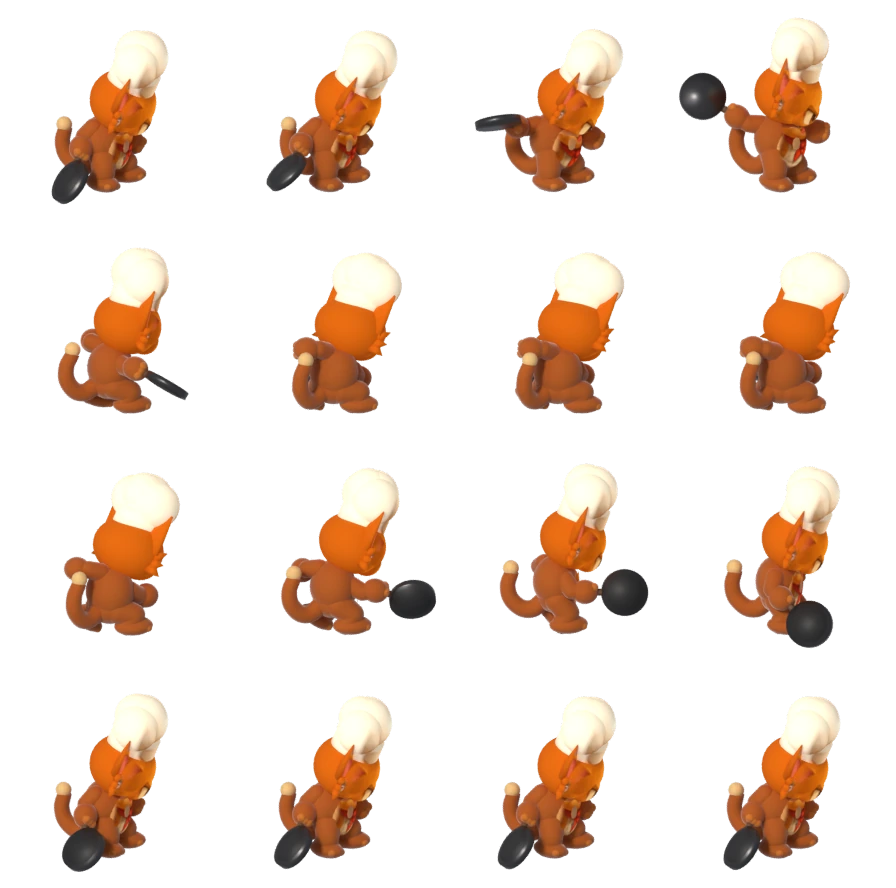
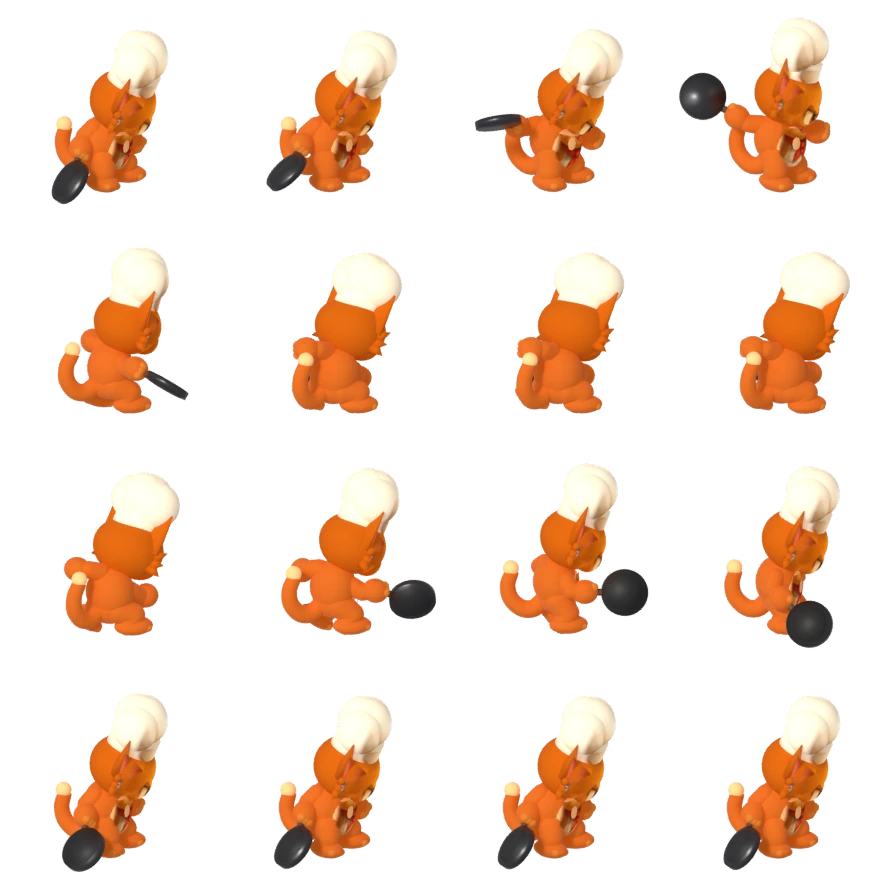
Chat chef 3D : même couleur tête et corps ; fichier mémoire ATELIER-BLENDER
Claude-Session: https://claude.ai/code/session_011iTQJ3ptn1M89syPvc6cfN

diff --git a/tools/blender/chef.py b/tools/blender/chef.py
@@ -30,7 +30,7 @@ CHAR_SCALE = 0.31   # taille du personnage par rapport à la carte : environ 56 
 ANIMS = {"idle": "Idle_Loop", "marche": "Walk_Loop", "course": "Jog_Fwd_Loop", "attaque": "Sword_Attack", "touche": "Hit_Chest", "mort": "Death01"}
 
 SPECS = {
-    "moustachu": dict(fur=(0.40, 0.085, 0.003), light=(0.75, 0.34, 0.10), apron=(0.93, 0.82, 0.62), scarf=(0.80, 0.10, 0.08),
+    "moustachu": dict(fur=(0.53, 0.10, 0.002), light=(0.77, 0.37, 0.13), apron=(0.93, 0.82, 0.62), scarf=(0.80, 0.10, 0.08),
                       hat=(0.96, 0.83, 0.62), ear_in=(0.95, 0.55, 0.60), eye=(0.55, 0.28, 0.05), tail_tip=(0.85, 0.37, 0.06),
                       paint=dict(img="moustachu_tete.png", px=(207.5, 60, 0, 295, 330), chin_z=0.76, top_z=1.93, row_chin=330,
                                  torso=dict(img="moustachu_plastron.png", px=(207.5, 112, 332, 196, 153)))),
@@ -47,10 +47,12 @@ def mat(name, color, rough=0.7, bump=0.0):
     b.inputs["Base Color"].default_value = (*color, 1)
     b.inputs["Roughness"].default_value = rough
     if bump:  # fourrure : reflet duveteux, lumière qui traverse un peu le poil, grain fin
-        b.inputs["Sheen Weight"].default_value = 0.7
+        b.inputs["Sheen Weight"].default_value = 0.12        # peu de reflet duveteux : il blanchit la couleur
         b.inputs["Sheen Roughness"].default_value = 0.35
-        b.inputs["Subsurface Weight"].default_value = 0.18
+        b.inputs["Subsurface Weight"].default_value = 0.05
         b.inputs["Subsurface Radius"].default_value = (0.6, 0.25, 0.1)
+        b.inputs["Emission Color"].default_value = (*color, 1)   # même éclat que la tête peinte : la tête et le corps ont la même couleur
+        b.inputs["Emission Strength"].default_value = 0.5
         n = nt.nodes.new("ShaderNodeTexNoise")
         n.inputs["Scale"].default_value = 260
         n.inputs["Detail"].default_value = 4

diff --git a/docs/memoire/ATELIER-BLENDER.md b/docs/memoire/ATELIER-BLENDER.md
@@ -1,0 +1,88 @@
+# Atelier Blender : cartes et personnages en 3D
+
+Mémoire technique du chantier 3D (créée le 17/11/2026 à la demande de Rudy : « apprendre de tes erreurs, ne pas les reproduire, avancer 10 fois plus vite »).
+À lire AVANT de toucher à `tools/blender/`. Le [[JOURNAL]] raconte l'histoire, [[REPRISE]] dit où on en est ; ce fichier dit **comment faire vite et sans erreur**.
+
+## 1. L'objectif de Rudy (à ne jamais perdre de vue)
+- Cartes et personnages en **vraie 3D réaliste, IDENTIQUES à ses dessins** (pas « dans le même esprit »).
+- Personnages avec un **vrai squelette**, qui marchent et courent **comme un humain**, **dans toutes les directions** (gauche, droite, haut, bas), de façon fluide.
+- Vue **en hauteur** : toute la carte visible. Taille des personnages **cohérente avec la carte** (ni gros, ni minuscules).
+- Rudy vérifie toujours : il compare avec l'original et voit les écarts. **Toujours comparer côte à côte avant de dire que c'est bon.**
+- Il ne veut RIEN installé sur son ordinateur : tout se passe dans le cloud.
+
+## 2. Mise en route (5 minutes)
+```bash
+python3 -m venv /tmp/blender_env
+pip download bpy --no-deps -d /tmp/bpy_dl            # roue ~430 Mo (Blender 5.3 comme module Python)
+/tmp/blender_env/bin/pip install /tmp/bpy_dl/bpy-*.whl
+pip install scipy opencv-contrib-python-headless      # masques, étalement des couleurs, agrandissement
+```
+- `ffmpeg` est déjà installé (`/usr/bin/ffmpeg`) pour les vidéos.
+- Les modèles libres ne sont pas dans le dépôt : `add_repo` (lecture) puis `GIT_LFS_SKIP_SMUDGE=1 git clone --depth 1 <url> <dossier>` :
+  - `walterpalladino/godot-quaternius-ultimate-stylized-nature` (arbres, buissons, rochers, fleurs, herbe ; FBX + textures) → dossier lu par `quaternius.py` (`QUAT_DIR`).
+  - `J-Ponzo/gltf-universal-animation-library` (squelette 53 os + 46 animations de capture de mouvement) → `UAL_GLTF`.
+  - `J-Ponzo/gltf-medieval-village-megakit` (murs, toits, sols, portes, caisses, charrette, clôtures : pour Taverne et Marché).
+- Lancer un script : `/tmp/blender_env/bin/python -I tools/blender/<script>.py -- <arguments>` (le `-I` est important).
+
+## 3. Les outils du dépôt (`tools/blender/`)
+| Fichier | À quoi il sert |
+|---|---|
+| `make_masks.py` | forme de la zone de terre et traces au sol, tirées de la peinture d'origine d'une carte |
+| `clairiere.py` | scène 3D complète de la Clairière (modèle pour les 7 autres cartes) ; `-- sortie.png échelle échantillons` |
+| `finish.py` | vignette, chaleur, contraste après le rendu de la carte |
+| `install_map.py` | installe un rendu 3360 x 1888 dans le jeu (4 tailles : `hd3d_`, `wide3d_`, `thumb3d_`, `port3d_`) |
+| `quaternius.py` | charge les modèles FBX du pack, textures, mise debout, copies (`Q.place`) |
+| `chef.py` | personnage sur le squelette ; modes `apercu`, `face`, `profil`, `angles`, `video`, `repos`, `jeu` |
+| `pack_anim.py` | assemble les rendus en planches WebP + `src/core/anim3d.json` |
+| `compose_video.py` | vidéo de démonstration (carte entière + loupe) |
+
+Dans le jeu : `BootScene` charge `rig_<chef>_<anim>_<direction>` ; `Chef.ts` (`applyRig`, `sectorFor`) choisit l'image selon la direction (8 secteurs, 5 angles rendus, les 3 autres retournés), la cadence des pas suit la vitesse (`RIG_STRIDE`).
+
+## 4. Méthode qui marche : la peinture projetée (identité du visage)
+- Un personnage fabriqué « à la main » par code ne ressemble PAS au dessin (essais 1 et 2 : mannequin à tête de chat, puis chat à proportions de dessin animé : reconnaissable mais pas identique).
+- Ce qui donne l'identique : **projeter la peinture d'origine de face** (tête, toque, foulard, tablier) sur des volumes 3D accrochés aux os, repère qui suit l'os (`painted_material` dans `chef.py`). De face = le dessin ; sur les côtés/dessus/dos = couleur unie éclairée (la projection s'étire sinon).
+- Ne PAS découper par la transparence de la peinture : vu de côté, la tête devient fantôme. Étaler les couleurs au-delà du contour (`scipy.ndimage.distance_transform_edt`) et ajuster les volumes à la silhouette.
+- **La tête et le corps doivent avoir la même couleur** (faute de Rudy du 17/11 soir : tête vive, corps terne). Mesurer les pixels sur un rendu (zones tête / torse / jambes) et comparer. Les matières « fourrure » ont la même émission que la tête peinte.
+- Pour un nouveau personnage : entrée dans `SPECS`, recadrer tête et plastron dans la peinture (`tools/blender/_work/`), couleurs mesurées sur la peinture, lancer `chef.py ... apercu/angles`, comparer, puis `jeu`.
+
+## 5. Réglages qui comptent
+- Carte : caméra orthographique inclinée à 60°, 1 unité = 100 px de la peinture ; `P(px, py, z)` place un objet au pixel de la peinture. Rendu 3360 x 1888, 48 échantillons, débruitage ; ~15 min.
+- Personnage : caméra à **18°** (presque de face, comme la peinture), `DENS = 3` px rendus par px de carte, `CHAR_SCALE = 0.31` (≈ 50 px de haut sur la carte de 1680 px), pieds ancrés en (320, 388) dans l'image de 640 px. Affichage dans le jeu : `pack_anim.py ... 80` (≈ 80 unités de haut comme les anciens chefs).
+- Mouvements : la bibliothèque est à 24 images/s ; images intermédiaires par `frame_set(int, subframe=)`. Course = `Sprint_Loop` (cycle court). Squelette raccourci par `Z_MAP` (jambes ×0,5) ; les déplacements du bassin des animations sont réduits de même (`LOC_K`).
+- Durées de rendu (4 cœurs) : image de personnage 640 px ≈ 2,6 s ; 300 images (5 angles) ≈ 13 min ; vidéo de 200 images ≈ 9 min.
+
+## 6. Ressources gratuites : ce qui est accessible
+- OK : GitHub (clone des dépôts publics, fichiers `raw.githubusercontent.com`), PyPI, `quaternius.com` et `opengameart.org` (pages), l'API `api.polyhaven.com`.
+- Bloqué dans l'environnement cloud tant que Rudy ne l'autorise pas : les fichiers de **Poly Haven** (`dl.polyhaven.org`, attention : en `.org`), **ambientCG** (`acg-download.struffelproductions.com`), Kenney (`kenney.nl`, 403), Sketchfab. Rudy les ajoute dans les réglages de l'environnement cloud (Domaines autorisés, **une adresse par ligne**), puis il faut peut-être **relancer la session**.
+- Licences : Quaternius = CC0 (usage commercial libre, pas de crédit obligatoire, mais **on ne redistribue pas les modèles eux-mêmes** : seuls les rendus vont dans le dépôt). Générateurs d'arbres sous GPL (tree-gen) : refusé par la sécurité de la session (code téléchargé), non utilisé.
+- Recherche de dépôts : `gh api -X GET search/repositories -f q='...'` (marche) ; lire un dépôt non attaché demande `add_repo`.
+
+## 7. Erreurs commises et leçons (ne plus jamais refaire)
+1. **Attendre la fin avec `grep -q fini`** : « fini » est dans « glTF import finished ». → attendre un marqueur unique (`CHEF OK`, `TERMINE`) avec `for i in $(seq 1 110); do grep -q "..." log && break; timeout 5 tail -f /dev/null; done`. Le `sleep` seul est bloqué.
+2. **Remplacement de texte trop large** dans `chef.py` : tout un bloc (la tête peinte) a été effacé. → remplacer des blocs précis entre deux repères uniques ; relancer un rendu de contrôle après CHAQUE modification ; enregistrer (commit) les états qui marchent ; `git checkout <fichier>` pour revenir.
+3. **Annoncer « fait » avant d'avoir comparé** à l'original : Rudy voit les écarts (dos, couleur tête/corps). → comparaison côte à côte sous les 5 angles + mesure des couleurs avant de fusionner.
+4. **Fusionner avant le dernier avis de Rudy** : la couleur tête/corps a été signalée après la fusion. → montrer d'abord une image, fusionner ensuite, sauf ordre clair « fusionne ».
+5. **`import bmesh` avant `import bpy`** → erreur. FBX du pack : axe « haut » = Y, tourner de −90° sur X avant d'appliquer les transformations.
+6. **API Blender 5** : actions en couches (`act.layers[].strips[].channelbags[].fcurves`), noeud Mix (entrées 6 et 7), entrées Principled `Sheen Weight`, `Subsurface Weight`, `Specular IOR Level`, `use_nodes` annoncé obsolète (inoffensif).
+7. **Caméra trop plongeante pour les personnages** (50-60°) : la toque cache le visage. → 18° pour les personnages, 60° pour la carte.
+8. **Découpe par transparence sur des volumes arrondis** : tête fantôme de côté. → pas d'alpha, couleurs étalées, couleur unie selon la normale.
+9. **Tester un seul angle** : le dos et le profil étaient mauvais. → toujours le mode `angles`.
+10. **Domaines réseau saisis sur une seule ligne** : refusé. → une adresse par ligne, case « gestionnaires de paquet » cochée.
+11. **Dire « fusionné » sans l'être** (et inversement) : vérifier avec l'état du dépôt avant de répondre.
+
+## 8. Pour aller 10 fois plus vite
+- Ne jamais refaire ce qui est décrit ici : lire cette page avant de commencer.
+- Prévisualiser en basse définition (`apercu`/`angles`, 1280 px, 24 échantillons ≈ 30 s) ; ne lancer le rendu final (13 à 15 min) qu'une fois la comparaison bonne ; le lancer en arrière-plan et travailler pendant ce temps (journal, code du jeu, notes).
+- Un chef = une entrée `SPECS` + 2 recadrages de peinture + 3 commandes (`angles`, `jeu`, `pack_anim`). Les animations et le code du jeu sont déjà faits et valables pour tous les chefs.
+- Une carte = copier `clairiere.py`, replacer les éléments aux pixels de la peinture (`P(px, py)`), `install_map.py`.
+- Quand un site est bloqué, noter ici lequel et ce que Rudy doit autoriser, sans attendre.
+
+## 9. Check-list avant de fusionner
+- [ ] `npm run build` passe ; aucune erreur dans la console du navigateur de test.
+- [ ] Comparaison côte à côte avec l'original sous 5 angles ; couleurs tête / corps mesurées et proches.
+- [ ] Partie de test dans le jeu : 6 directions, repos, course, attaque.
+- [ ] Journal et cette fiche à jour ; ligne datée dans la note Obsidian du projet (`projets/bistro-donjon.md`).
+- [ ] Dire clairement ce qui n'est PAS identique.
+
+## 10. Reste à faire (au 17/11 nuit)
+Autres chefs (Maître Shiba, Mlle Noisette), combattants, costumes, monstres ; 7 autres cartes ; textures de sol réalistes (en attente des domaines) ; profil et dos de la tête du chat ; poêle ; vidéo de démonstration à jour.

diff --git a/docs/memoire/JOURNAL.md b/docs/memoire/JOURNAL.md
@@ -14,6 +14,7 @@ Pour reprendre vite : lire d'abord [[REPRISE]] (`docs/memoire/REPRISE.md`).
 - **Pas fait** : les autres chefs, les combattants, les monstres, les 7 autres cartes ; les textures de sol réalistes (Poly Haven, ambientCG : leurs domaines de téléchargement `dl.polyhaven.org` et `acg-download.struffelproductions.com` ne sont pas autorisés dans l'environnement cloud) ; l'angle d'attaque (il tourne le dos par moments).
 - **Ressemblance du chat (suite, 17/11 soir)** : la tête (visage, yeux, sourcils, oreilles, toque) et le plastron (foulard rouge, tablier) du chat 3D sont maintenant la **peinture d'origine projetée de face** sur des volumes 3D accrochés aux os (`painted_head()` dans `chef.py`, images recadrées dans `tools/blender/_work/`, produites depuis `public/assets/sprites3d/moustachu.png`). De face, on retrouve le dessin à l'identique ; sur les côtés et le dessus, la matière passe à une couleur unie (la peinture s'étire sinon). Le profil et le dos sont donc plus simples que le dessin. Pour un autre chef : ajouter une entrée dans `SPECS` avec les zones de la peinture (`paint`), recadrer la tête et le plastron, relancer `chef.py ... jeu` puis `pack_anim.py`.
 - **Chat chef : le dos et les côtés, corrigés (17/11 nuit)** : Rudy trouvait le chat « mal fini » de dos et pas identique. Corrections dans `chef.py` : couleurs mesurées sur la peinture (joues, membres, ventre, queue, toque), queue en tube lisse à bout crème (courbe de Bézier), bras et jambes fondus en une surface lisse (remaillage `REMESH` voxel dans `capsule()`), oreilles aplaties, poêle plus grande avec rebord, couleur unie éclairée sur les côtés, le dessus et le dos de la tête/toque (elle ne dépend plus de l'émission). Mode `angles` pour comparer les 5 angles avec l'original. Piège : un remplacement de texte trop large dans `chef.py` avait effacé la tête peinte ; toujours remplacer un bloc précis et relancer un rendu de contrôle.
+- **Chat chef : même couleur tête et corps (17/11 nuit)** : Rudy a vu la tête vive et le corps terne (mesure : tête 212-98-17, torse 168-95-51, jambes 142-78-46). Les matières « fourrure » prennent la couleur mesurée sur la peinture et la même émission que la tête (`mat()` dans `chef.py`), peu de duvet blanc ; après correction : tête 212-98-17, torse 229-122-51, jambes 208-99-36. **Nouveau fichier de mémoire technique : `docs/memoire/ATELIER-BLENDER.md`** (outils, méthode, ressources, erreurs à ne pas refaire, check-list avant fusion) ; `CLAUDE.md` et `REPRISE.md` y renvoient. Règle ajoutée : montrer une image comparée à l'original et attendre l'accord de Rudy avant de fusionner du visuel.
 - Pas fait : la poêle (tenue de façon peu naturelle), les autres personnages, les cartes restantes ; la caméra des personnages est à 18 degrés (presque de face, comme la peinture).
 - **Licences** : les modèles Quaternius sont libres pour un jeu commercial sans citer l'auteur ; on ne peut pas redistribuer les modèles eux-mêmes. Ils ne sont donc PAS dans le dépôt (seuls les rendus le sont). Dossier lu par défaut : `/home/user/walterpalladino/godot-quaternius-ultimate-stylized-nature/...` (dépôt GitHub public cloné avec `add_repo`) et `/home/user/j-ponzo/gltf-universal-animation-library`.
 - **Obsidian** : Claude ne peut pas lire le disque du PC de Rudy depuis le cloud (aucun dossier partagé par Remote Control). Le journal du projet voyage par GitHub (`git pull` sur le PC).

diff --git a/CLAUDE.md b/CLAUDE.md
@@ -3,7 +3,7 @@
 Jeu mobile (Android d'abord) de SolveLab : action-survie roguelike + cuisine, pixel art, portrait 360 × 640, une main. Paysage géré depuis le 12/11/2026 (partie en plein écran, menu et boutique dessinés pour le paysage).
 Stack : Phaser 3 + TypeScript + Vite, Capacitor pour Android. Tout le texte du jeu est en français.
 
-**Avant de travailler, lire `docs/memoire/REPRISE.md`** (fiche de reprise : où on en est, quoi régénérer ou non, erreurs à éviter), puis **`docs/memoire/JOURNAL.md`** (où on en est, erreurs à ne pas refaire) et le mettre à jour en fin de session.
+**Avant de travailler, lire `docs/memoire/REPRISE.md`** (et, pour tout ce qui touche à la 3D / Blender / personnages / cartes, **`docs/memoire/ATELIER-BLENDER.md`** : méthode, pièges déjà vécus, check-list avant fusion) (fiche de reprise : où on en est, quoi régénérer ou non, erreurs à éviter), puis **`docs/memoire/JOURNAL.md`** (où on en est, erreurs à ne pas refaire) et le mettre à jour en fin de session.
 Ces fichiers sont du Markdown simple : le dossier `docs/` s'ouvre tel quel comme coffre Obsidian.
 
 ## Commandes
@@ -42,6 +42,7 @@ Mettre à jour `docs/memoire/JOURNAL.md` : « Où on en est » (fait / pas fait 
 Ce journal est recopié automatiquement dans le cerveau Obsidian du propriétaire et lu par son assistante vocale Alma : il doit rester clair pour un non-développeur.
 
 ## Règles de travail
+- **Avant de fusionner du travail visuel (cartes, personnages) : montrer à Rudy une image comparée à l'original et attendre son accord**, sauf s'il dit clairement « fusionne ». Dire franchement ce qui n'est PAS identique.
 - Ne jamais écrire en dur une adresse e-mail ou une donnée personnelle du propriétaire : passer par `.env` (`VITE_SUPPORT_EMAIL`).
 - Les textes EN MAJUSCULES s'écrivent sans accents (la police Press Start 2P les rend mal) ; les minuscules gardent leurs accents.
 - Texte du jeu en taille 8 ou 16 uniquement, 44 caractères maximum par ligne en taille 8.

diff --git a/docs/memoire/REPRISE.md b/docs/memoire/REPRISE.md
@@ -21,7 +21,7 @@ Mise à jour : 17/11/2026 (soir) : jeu net sur PC ; Clairière en 3D Blender ; c
 
 ## 2. Ce qu'on reprend (dans l'ordre)
 
-0. **Blender (cartes et personnages 3D, demande de Rudy du 17/11)** : voir l'entrée « cartes et personnage en vraie 3D » du [[JOURNAL]]. Suite : resserrer le visage du chat, refaire les autres chefs et monstres avec `tools/blender/chef.py`, puis les 7 autres cartes avec `tools/blender/clairiere.py` comme modèle ; textures de sol réalistes quand les deux domaines (`dl.polyhaven.org`, `acg-download.struffelproductions.com`) seront autorisés.
+0. **Blender (cartes et personnages 3D, demande de Rudy du 17/11)** : lire d'abord [[ATELIER-BLENDER]] (méthode, outils, erreurs à ne pas refaire), puis l'entrée « cartes et personnage en vraie 3D » du [[JOURNAL]]. Suite : resserrer le visage du chat, refaire les autres chefs et monstres avec `tools/blender/chef.py`, puis les 7 autres cartes avec `tools/blender/clairiere.py` comme modèle ; textures de sol réalistes quand les deux domaines (`dl.polyhaven.org`, `acg-download.struffelproductions.com`) seront autorisés.
 
 1. **Sons et musique professionnels** (demande de Rudy) :
    - Rudy télécharge de vrais sons gratuits et les dépose dans `reference/sons/`.
